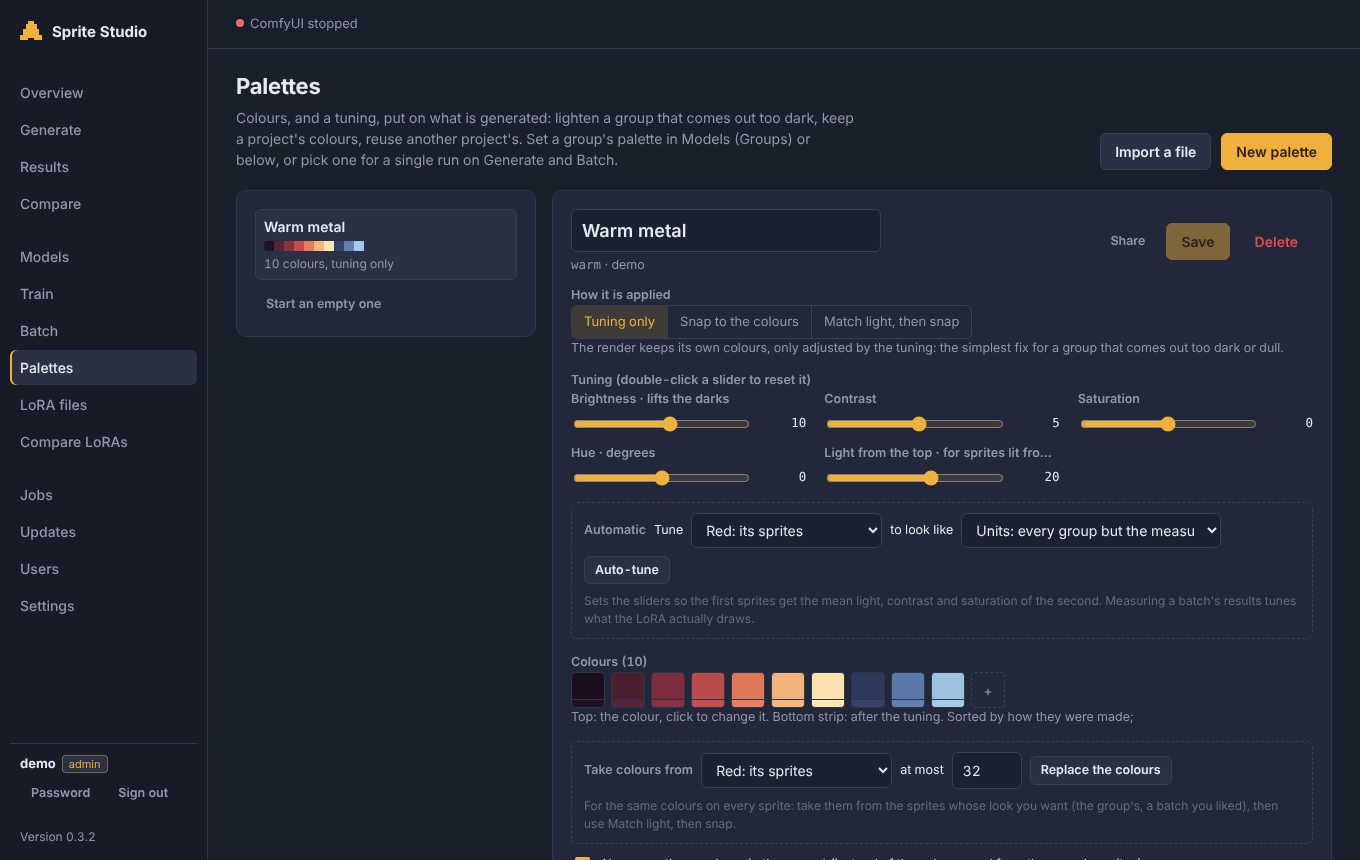
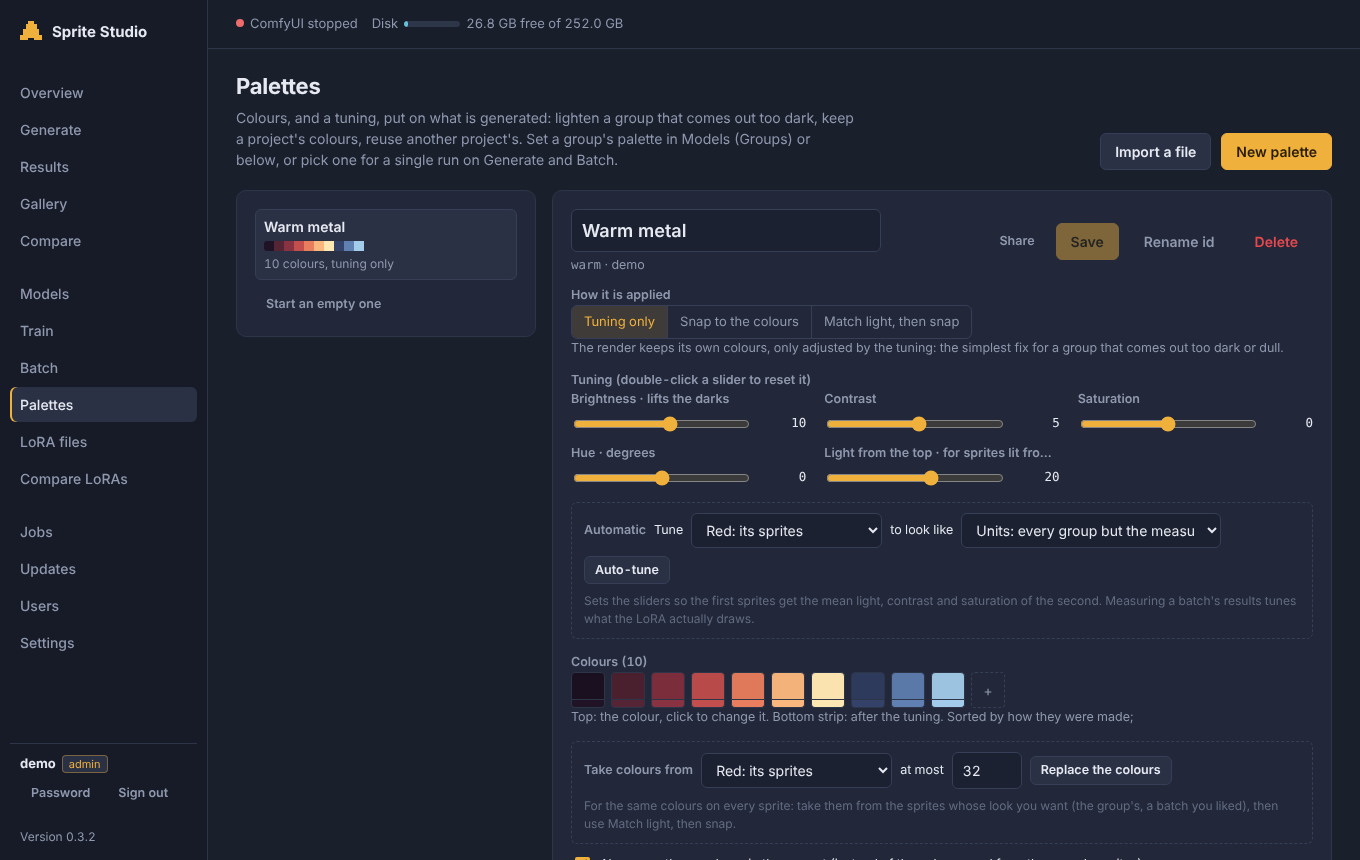
feat(models): rename models, palettes and results
POST /api/models/{id}/rename, /api/palettes/{id}/rename and
/api/results/rename give a resource another name while keeping its id.
The owner and shares stay, a model's folder moves with it, and the
links follow: job notes (model=), installed-LoRA records, gallery
images, the groups using a palette, stars and gallery sources of a
result. A model or result a queued or running job is using is refused.

The Models settings tab, the Palettes editor and the Results page get
a Rename button. README screenshots rebuilt.

Claude-Session: https://claude.ai/code/session_01X9U39yhGBe9tTVzVoyiHEq

diff --git a/webapp/static/app.js b/webapp/static/app.js
@@ -1323,8 +1323,22 @@ routes.results = async (main, _parts, params) => {
     try { d = await api(detailUrl); } catch (e) { view.append(h("div", { class: "note bad" }, e.message)); return; }
     const body = h("div", {});
     const item = items.find((i) => i.path === d.path) || {};
-    const delBtn = (path, label, small) => item.busy ? null : h("button", { class: "btn sm ghost danger", title: "Move to the bin",
-      onclick: () => removeResults({ paths: [path] }, label) }, small ? "Delete" : "Delete " + (d.type === "batch" ? "batch" : d.type === "matrix" ? "test" : "result"));
+    const renameBtn = (path) => item.busy || item.path !== path || item.access === "read" ? null : h("button", { class: "btn sm ghost", title: "Give this result folder another name (its stars and gallery images follow)",
+      onclick: async () => {
+        const cur = path.split("/").pop();
+        const to = await askText("Rename the result", { input: "New name", value: cur, ok: "Rename" });
+        if (!to || to === cur) return;
+        const r = await attempt(() => api("/results/rename", { body: { name: cur, to } }), "Renamed");
+        if (!r) return;
+        current = path.slice(0, path.length - cur.length) + r.renamed;
+        history.replaceState(null, "", "#/results?path=" + encodeURIComponent(current));
+        await loadPicks();
+        items = await api("/results");
+        drawList();
+        drawView();
+      } }, "Rename");
+    const delBtn = (path, label, small) => item.busy ? null : h("span", { class: "row", style: { gap: "6px" } }, small ? null : renameBtn(path), h("button", { class: "btn sm ghost danger", title: "Move to the bin",
+      onclick: () => removeResults({ paths: [path] }, label) }, small ? "Delete" : "Delete " + (d.type === "batch" ? "batch" : d.type === "matrix" ? "test" : "result")));
     const redraw = () => { body.innerHTML = ""; drawBody(); bar.replaceWith(bar = makeBar()); };
     const makeBar = () => viewBar(redraw, [h("label", { class: "check small" }, h("input", { type: "checkbox", checked: S.view.raw, onchange: (e) => { S.view.raw = e.target.checked; saveView(); redraw(); } }), "Raw renders")]);
     let bar = makeBar();
@@ -2713,6 +2727,12 @@ async function modelEditor(main, mid, tab) {
           h("p", { class: "small muted" }, "A file with this model's groups, kinds, words and settings (no sprites), to import on another machine or as a template for another game (Models → Import a model file)."),
           h("a", { class: "btn", href: `/api/models/${mid}/export`, download: `${mid}.json` }, "Export the model")),
         h("div", { class: "panel", hidden: d.access === "read" }, h("h2", {}, "Folder"), d.dir ? h("p", { class: "small mono muted" }, d.dir) : null,
+          h("button", { class: "btn", style: { marginRight: "8px" }, title: "Change the model's id (its folder moves with it; results, LoRAs and the gallery follow)", onclick: async () => {
+            const to = await askText("Rename the model", { input: "New id", value: mid, hint: "Lowercase letters, digits and _. Not while a job for it is queued or running.", ok: "Rename" });
+            if (!to || to === mid) return;
+            const r = await attempt(() => api(`/models/${mid}/rename`, { body: { to } }), "Renamed");
+            if (r) { await loadCatalog(); location.hash = "#/models/" + to; }
+          } }, "Rename this model"),
           h("button", { class: "btn danger", onclick: async () => {
             if (!(await askConfirm(`Delete the model ${m.label}? Its folder (sprites, training sets, checkpoints) is moved to .deleted, not erased.`, { danger: true, ok: "Delete", title: "Delete the model" }))) return;
             const r = await attempt(() => api("/models/" + mid, { method: "DELETE" }), "Model deleted");
@@ -3053,6 +3073,12 @@ routes.palettes = async (main, parts) => {
             const r = await attempt(() => api("/palettes/" + id, { method: "PUT", body: Object.assign({}, edit, { id }) }), "Copy made");
             if (r) { current = id; dirty = false; await loadPalettes(); drawList(); drawEditor(); }
           } }, "Make my own copy") : saveBtn,
+          p.access === "read" ? null : h("button", { class: "btn ghost", title: "Change the palette's id (the groups using it follow)", onclick: async () => {
+            const to = await askText("Rename the palette", { input: "New id", value: p.id, hint: "Lowercase letters, digits and _. The groups using it follow.", ok: "Rename" });
+            if (!to || to === p.id) return;
+            const r = await attempt(() => api("/palettes/" + p.id + "/rename", { body: { to } }), "Renamed");
+            if (r) { current = r.id; dirty = false; await loadPalettes(); await loadCatalog(); drawList(); drawEditor(); }
+          } }, "Rename id"),
           p.access === "read" ? null : h("button", { class: "btn ghost danger", onclick: async () => {
             if (!(await askConfirm(`Delete the palette ${p.label}?` + (p.used_by.length ? ` The groups using it (${p.used_by.join(", ")}) go back to no palette.` : ""), { danger: true, ok: "Delete", title: "Delete the palette" }))) return;
             if (await attempt(() => api("/palettes/" + p.id, { method: "DELETE" }), "Palette deleted")) { current = ""; dirty = false; await loadPalettes(); await loadCatalog(); current = (S.palettes[0] || {}).id || ""; drawList(); drawEditor(); }

diff --git a/webapp/app.py b/webapp/app.py
@@ -2427,6 +2427,34 @@ def _rewrite_head(jt: Path, lid: str) -> None:
     tmp.replace(jt)
 
 
+def rewrite_job_heads(match: str, key: str, new: str, *, add_missing: bool = False) -> int:
+    """Every result's job.txt (the bin included) whose first line has `key=<match>` gets `key=<new>` instead.
+    Returns how many were changed."""
+    root = setting_path("px_output")
+    n = 0
+    if not root.is_dir():
+        return n
+    for pattern in ("*/job.txt", "*/*/job.txt", "*/*/*/job.txt", ".bin/*/job.txt", ".bin/*/*/job.txt"):
+        for jt in root.glob(pattern):
+            try:
+                text = jt.read_text(errors="replace")
+            except OSError:
+                continue
+            first, sep, rest = text.partition("\n")
+            fixed = re.sub(rf"(?<!\S){re.escape(key)}={re.escape(match)}(?=\s|$)", f"{key}={new}", first)
+            if fixed != first:
+                tmp = jt.with_name(jt.name + ".tmp")
+                tmp.write_text(fixed + sep + rest)
+                tmp.replace(jt)
+                n += 1
+    return n
+
+
+def busy_with(pred) -> bool:
+    """Is a queued or running job one `pred(job)` says is about the thing being renamed?"""
+    return any(j["status"] in ("queued", "running") and pred(j) for j in list(JOBS.jobs.values()))
+
+
 def adopt_legacy_refs(f: Path) -> None:
     """Before a LoRA file is renamed: gives the id to the older results (job.txt with only `lora=<name>`) and
     gallery items (name and content hash) that point at it, so they follow the file afterwards."""
@@ -3177,6 +3205,48 @@ def api_model_delete(mid: str):
     return {"moved_to": str(dst)}
 
 
+@app.post("/api/models/{mid}/rename")
+async def api_model_rename(mid: str, request: Request):
+    """Gives a model another id ({"to": new}): its folder, sprites and training move with it. Its owner, shares,
+    LoRA files, results and gallery images follow by id."""
+    model_cfg(mid)  # (first: someone else's model does not exist for you)
+    b = await request.json()
+    new = str(b.get("to") or "").strip()
+    if not re.fullmatch(r"[a-z0-9_]{1,40}", new):
+        raise HTTPException(400, "a model id is lowercase letters, digits and _ (40 at most)")
+    if new == mid:
+        return api_model(mid)
+    p = pm()
+    src, dst = Path(p.model_dir(mid)), Path(p.model_dir(new))
+    if not src.exists():
+        raise HTTPException(400, "this built-in model has nothing saved to rename")
+    if dst.exists() or ACCOUNTS.entry("model", new):
+        raise HTTPException(400, f"a model {new} exists already")
+    if busy_with(
+        lambda j: (
+            mid in (j["meta"].get("category"), j["meta"].get("model"), (j["meta"].get("request") or {}).get("model"))
+        )
+    ):
+        raise HTTPException(409, "a job for this model is queued or running: rename it when the job is done")
+    uid = ACCOUNTS.uid("model", mid)
+    with _lock:
+        shutil.move(str(src), str(dst))
+        m = p.load(new)
+        p.save(m)  # (its id is written as the new one)
+        rec = _load("installed.json", {})
+        for r in rec.values():
+            if r.get("model") == mid:
+                r["model"], r["model_id"] = new, uid
+        _save("installed.json", rec)
+    ACCOUNTS.rename("model", mid, new)
+    rewrite_job_heads(mid, "model", new)
+    for g in gallery_metas():
+        if g.get("model_id") == uid or (not g.get("model_id") and g.get("model") == mid):
+            g["model"], g["model_id"] = new, uid
+            _gallery_write(g["id"], g)
+    return api_model(new)
+
+
 @app.post("/api/models/{mid}/upload")
 async def api_model_upload(mid: str, request: Request):
     m = model_cfg(mid)
@@ -3300,6 +3370,48 @@ async def api_results_delete(request: Request):
         raise HTTPException(400, "nothing to delete")
     done = [delete_result(x) for x in dict.fromkeys(paths)]
     return {"deleted": done, "bin": bin_info()}
+
+
+RESERVED_RESULTS = ("uploads", "picked", "recoloured")
+
+
+@app.post("/api/results/rename")
+async def api_results_rename(request: Request):
+    """Renames a result folder ({"name": old, "to": new}). It keeps its id, owner and shares; its stars and the
+    gallery images saved from it follow."""
+    b = await request.json()
+    old = str(b.get("name") or "")
+    root = setting_path("px_output")
+    if not old or old.startswith(".") or old in RESERVED_RESULTS or "/" in old or not (root / old).is_dir():
+        raise HTTPException(404, "no such result")
+    need("result", old, True)
+    new = name_ok(b.get("to") or "")
+    if new.startswith(".") or new in RESERVED_RESULTS:
+        raise HTTPException(400, "choose another name")
+    if new == old:
+        return {"renamed": old}
+    if (root / new).exists() or ACCOUNTS.entry("result", new):
+        raise HTTPException(400, f"{new} exists already")
+    src, dst = root / old, root / new
+    if busy_with(lambda j: str(j.get("out") or "").startswith(str(src))):
+        raise HTTPException(409, "a job is still writing to this result: rename it when the job is done")
+    with _lock:
+        src.rename(dst)
+        d = picks_load()
+        for picks in d["users"].values():
+            for k in [k for k in picks if k == str(src) or k.startswith(str(src) + "/")]:
+                picks[str(dst) + k[len(str(src)) :]] = picks.pop(k)
+        _save("picks.json", d)
+        for j in JOBS.jobs.values():
+            if str(j.get("out") or "").startswith(str(src)):
+                j["out"] = str(dst) + j["out"][len(str(src)) :]
+        JOBS.persist()
+    for m in gallery_metas():  # (the copy in the gallery remembers where it came from)
+        if str(m.get("source", "")).startswith(str(src) + "/"):
+            m["source"] = str(dst) + m["source"][len(str(src)) :]
+            _gallery_write(m["id"], m)
+    ACCOUNTS.rename("result", old, new)
+    return {"renamed": new}
 
 
 def bin_owner_key(d: Path) -> str:
@@ -3518,6 +3630,39 @@ async def api_palette_save(pid: str, request: Request):
     out = save_palette(clean_palette(await request.json(), pid))
     claim("palette", pid)
     return out
+
+
+@app.post("/api/palettes/{pid}/rename")
+async def api_palette_rename(pid: str, request: Request):
+    """Gives a palette another id ({"to": new}); the groups that use it, its owner and its shares follow."""
+    pal = read_palette(pid)
+    need("palette", pid, True)
+    new = (await request.json()).get("to") or ""
+    if not PAL_ID.fullmatch(new):
+        raise HTTPException(400, "a palette id is lowercase letters, digits and _")
+    if new == pid:
+        return pal
+    if (pal_dir() / f"{new}.json").exists() or ACCOUNTS.entry("palette", new):
+        raise HTTPException(400, f"a palette {new} exists already")
+    with _lock:
+        data = json.loads((pal_dir() / f"{pid}.json").read_text())
+        data["id"] = new
+        if data.get("label") in (pid, None, ""):
+            data["label"] = new
+        save_palette(data)
+        (pal_dir() / f"{pid}.json").unlink()
+        for mid in pm().list_models():  # (every model's groups: a rename must not leave a dangling palette)
+            try:
+                m = pm().load(mid)
+            except SystemExit:
+                continue
+            if any(g.get("palette") == pid for g in m["groups"]):
+                for g in m["groups"]:
+                    if g.get("palette") == pid:
+                        g["palette"] = new
+                pm().save(m)
+    ACCOUNTS.rename("palette", pid, new)
+    return read_palette(new)
 
 
 @app.delete("/api/palettes/{pid}")

diff --git a/tests/test_ids.py b/tests/test_ids.py
@@ -55,3 +55,66 @@ def test_a_project_keeps_its_id_when_renamed(team, env):  # noqa: F811
     uid = next(p["uid"] for p in admin.get("/api/projects").json() if p["name"] == "Alpha")
     out = admin.post("/api/projects/rename", json={"old": "Alpha", "new": "Beta"}).json()
     assert [p["uid"] for p in out if p["name"] == "Beta"] == [uid]
+
+
+def test_a_result_can_be_renamed_and_its_links_follow(team, env):  # noqa: F811
+    admin, ann, bob = team
+    lora_file(env)
+    d = make_result(env)
+    gid = admin.post("/api/gallery", json={"path": str(d / "red_small_1_s11.png")}).json()["id"]
+    admin.post("/api/picks", json={"path": str(d / "red_small_1_s12.png"), "picked": True})
+    uid = admin.module.ACCOUNTS.uid("result", d.name)
+    assert admin.post("/api/results/rename", json={"name": d.name, "to": "better_name"}).json() == {
+        "renamed": "better_name"
+    }
+    new = Path(env["output"]) / "better_name"
+    assert new.is_dir() and not d.exists()
+    assert admin.module.ACCOUNTS.uid("result", "better_name") == uid  # same id
+    assert list(admin.get("/api/picks").json()) == [str(new / "red_small_1_s12.png")]
+    assert admin.get(f"/api/gallery/{gid}").json()["source"] == str(new / "red_small_1_s11.png")
+    assert admin.post("/api/results/rename", json={"name": "better_name", "to": "better_name"}).status_code == 200
+    make_result(env, "other")
+    assert admin.post("/api/results/rename", json={"name": "better_name", "to": "other"}).status_code == 400
+    assert admin.post("/api/results/rename", json={"name": "picked", "to": "x"}).status_code == 404
+
+
+def test_a_palette_can_be_renamed_and_its_groups_follow(team, env):  # noqa: F811
+    from test_accounts import make_model
+
+    admin, ann, bob = team
+    make_model(admin)
+    assert admin.put("/api/palettes/warm", json={"colours": ["#ff0000"], "label": "warm"}).status_code == 200
+    m = admin.get("/api/models/units").json()["model"]
+    g = {"id": "red", "label": "Red", "palette": "warm"}
+    admin.put("/api/models/units", json={"groups": [*m["groups"], g]})
+    uid = admin.module.ACCOUNTS.uid("palette", "warm")
+    r = admin.post("/api/palettes/warm/rename", json={"to": "cool"})
+    assert r.status_code == 200 and r.json()["id"] == "cool" and r.json()["label"] == "cool"
+    assert admin.get("/api/palettes/warm").status_code == 404
+    assert admin.module.ACCOUNTS.uid("palette", "cool") == uid
+    assert (
+        next(x for x in admin.get("/api/models/units").json()["model"]["groups"] if x["id"] == "red")["palette"]
+        == "cool"
+    )
+    assert admin.post("/api/palettes/cool/rename", json={"to": "Bad Name"}).status_code == 400
+
+
+def test_a_model_can_be_renamed_and_everything_follows(team, env):  # noqa: F811
+    from test_accounts import make_model
+
+    admin, ann, bob = team
+    make_model(admin)
+    lora_file(env)
+    d = make_result(env)
+    gid = admin.post("/api/gallery", json={"path": str(d / "red_small_1_s11.png")}).json()["id"]
+    uid = admin.module.ACCOUNTS.uid("model", "units")
+    r = admin.post("/api/models/units/rename", json={"to": "troops"})
+    assert r.status_code == 200 and r.json()["model"]["id"] == "troops"
+    assert not (Path(env["lora"]) / "units").exists() and (Path(env["lora"]) / "troops" / "model.json").exists()
+    assert admin.get("/api/models/units").status_code == 404
+    assert admin.module.ACCOUNTS.uid("model", "troops") == uid
+    assert " model=troops " in (d / "job.txt").read_text().splitlines()[0] + " "
+    assert admin.get(f"/api/gallery/{gid}").json()["model"] == "troops"
+    assert admin.post("/api/models/troops/rename", json={"to": "Not OK"}).status_code == 400
+    make_model(admin, "second", "pxsecond")
+    assert admin.post("/api/models/troops/rename", json={"to": "second"}).status_code == 400

diff --git a/CHANGELOG.md b/CHANGELOG.md
@@ -9,11 +9,12 @@ and this project adheres to [Semantic Versioning](https://semver.org/spec/v2.0.0
 
 ### Added
 
+- **Renaming**: a model (*Settings → Rename this model*), a palette (*Rename id*) and a result (*Rename*) can be given another name. They keep their id, so the owner and the shares stay; a model's folder moves with it and its LoRA records, results and gallery images follow; the groups using a palette follow it; a result's stars and the gallery images saved from it follow. A model with a queued or running job, or a result a job is writing to, is refused until the job is done. A model that comes from a template keeps working, but "Use the template's settings" no longer finds its template after a rename.
 - **Gallery**: a page per user for the sprites you keep. The bookmark button on a result copies the image with its recipe (LoRA file and epoch, seed, model, group, kind, settings, prompt). A gallery image stays when its result is deleted, its recipe cannot be edited, and the LoRA it was made with cannot be deleted while it is there. Share an image with chosen users or everyone (read-only), organise with folders and tags, search and filter, move or tag a selection, and export a selection as a zip (PNG files plus `manifest.json`, optionally keeping the folders).
 
 ### Changed
 
-- **Identity**: every model, palette, result, project and LoRA file now has a stable UUID, made automatically for what exists already (`ids.json`). Ownership and sharing are kept by that id instead of the name (the old list is migrated on start-up; nothing is lost), rows in the API carry a `uid`, the sharing routes accept the id as well as the name, and gallery images and installed-LoRA records remember the model by id. Names are labels: a rename keeps the owner, the shares and the links. Models, palettes and results cannot be renamed yet; folders and `model.json` / `job.txt` keep their names on disk.
+- **Identity**: every model, palette, result, project and LoRA file now has a stable UUID, made automatically for what exists already (`ids.json`). Ownership and sharing are kept by that id instead of the name (the old list is migrated on start-up; nothing is lost), rows in the API carry a `uid`, the sharing routes accept the id as well as the name, and gallery images and installed-LoRA records remember the model by id. Names are labels: a rename keeps the owner, the shares and the links. 
 
 - **LoRA files**: nothing is overwritten any more. Installing a LoRA over an existing name (*Use*, *Install*) keeps the old file as `<name>_<unix time>.safetensors`; a new training moves the last run's checkpoints and previews to `previous/<unix time>/` in the model's output folder.
 - **LoRA files**: a LoRA that results or gallery images still use cannot be deleted (the button is off, the server answers 409). Renaming is always allowed: every LoRA file has a stable id, new results and gallery images point at that id (`lora_id=` in the result's job notes), and older ones are given the id the first time their file is renamed, so nothing is lost. The table shows the gallery count next to the results.

diff --git a/docs/GUIDE.md b/docs/GUIDE.md
@@ -55,6 +55,12 @@ A model lives in `~/lora/<id>/`: `model.json` (what it is), `sprites/`
 (what it learns from), `dataset/` and `output/` (SD 1.5 training set and
 runs; `dataset_xl/` and `output_xl/` for SDXL).
 
+**Renaming a model** (*Settings → Rename this model*) changes its id and moves
+the folder. Everything points at the model by a hidden id, so its owner, shares,
+LoRA records, results and gallery images follow. It is refused while a job for the
+model is queued or running. A model made from a template stops matching it, so
+*Use the template's settings* is no longer offered.
+
 ### 3.1 Projects and starting points
 
 Models belong to a *project*, one per project. The list at the top of the menu
@@ -399,7 +405,9 @@ so the pixel grid is a whole number (2 on SD 1.5, 4 on SDXL).
 Every run, batch and comparison of the output folder. Zoom (Fit, 1x to 8x),
 backdrop (checker, dark, floor, light), raw renders; star the variant to
 keep (*Export picks* copies them to `output/picked/`, named after the sprite
-they replace), compare side by side. **Delete** a result, one sprite of a
+they replace), compare side by side. **Rename** gives a result folder another name; its
+stars, owner, shares and the gallery images saved from it follow (not while a job is
+writing to it). **Delete** a result, one sprite of a
 batch, its failed sprites, or every empty result: they go to the output
 folder's `.bin`, where *Undo last delete* puts them back until you *Empty
 bin*. **Train on picks…** copies the starred sprites into a new or existing
@@ -439,6 +447,7 @@ name is a different file (which is why old files are kept).
 
 A LoRA reproduces the colours of its training sprites: a dark group comes
 out dark. A palette fixes colours after rendering, without retraining.
+**Rename id** changes a palette's id; the groups that use it follow.
 
 **Making one** (Palettes page, *New palette*):
 

diff --git a/docs/ARCHITECTURE.md b/docs/ARCHITECTURE.md
@@ -146,7 +146,7 @@ it when the run finishes (`follow_up`). `GET /api/train/<model>` reports
 `previews_todo`, `previews_by_epoch` and `final_epoch`.
 `GET /api/loras` lists ComfyUI's LoRA files (model from `installed.json`, else from the
 trigger the name starts with; epoch; the number of results whose `job.txt` names the file);
-`POST /api/loras/use|rename|delete` change them (a model's own `<trigger>[_xl].safetensors`
+`POST /api/models/{id}/rename`, `/api/palettes/{id}/rename` and `/api/results/rename` move a resource to a new name (the registry id, and so the owner and shares, stay; `rewrite_job_heads` fixes `model=` in every `job.txt`; picks, gallery sources, installed-LoRA records and the groups' palettes are rewritten; a queued or running job on the thing refuses with 409). `POST /api/loras/use|rename|delete` change them (a model's own `<trigger>[_xl].safetensors`
 cannot be renamed or a rename target; a rename keeps the file's id).
 `GET /api/models/<id>/prompt?group=&kind=` returns the prompt the model builds
 for a group and a kind; the Preview prompts editor uses it to start a row.
